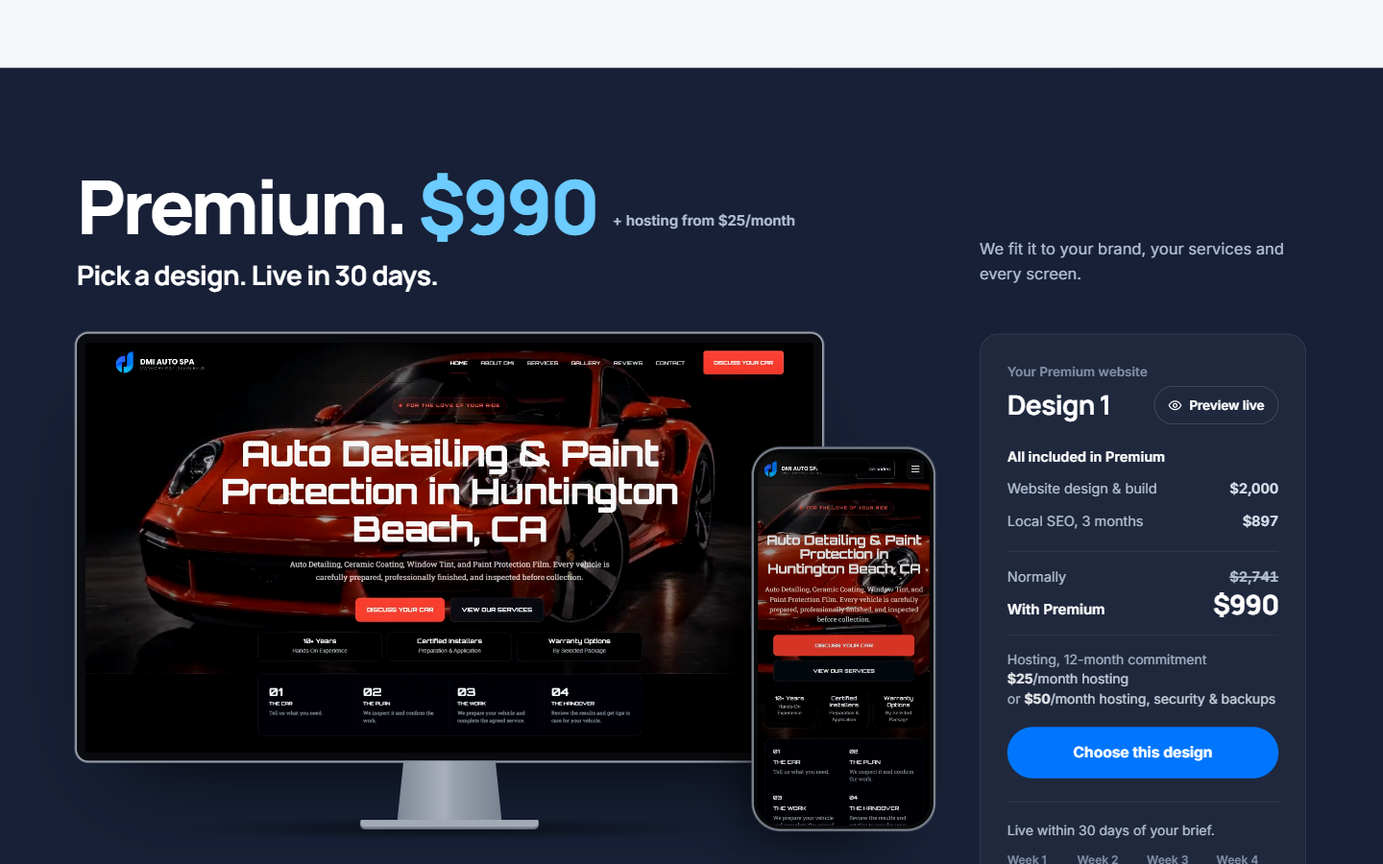
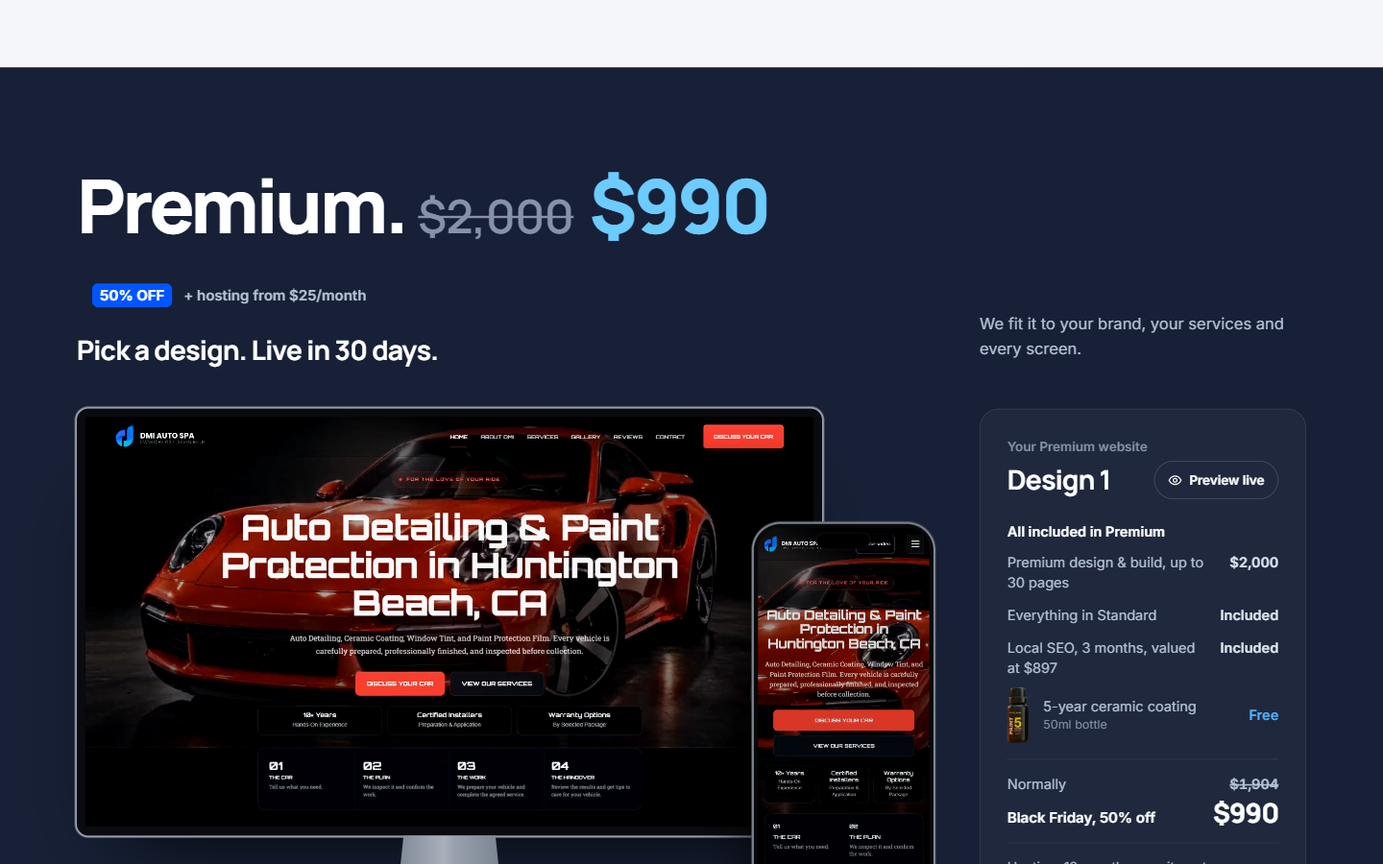
BF offer per Ed: 50% off pricing, page limits, free ceramic (temp Apeax photo), hosting choice, GHL payment links, Jesse calendar, tidy mobile hero

diff --git a/site/index.html b/site/index.html
@@ -2087,7 +2087,7 @@ body .dmx-cus .side .inc{margin:18px 0 8px;font-size:13.5px;font-weight:600;colo
    <h1 id="dmx-hero-h">Black Friday <span class="text-gradient-blue">Website Sale 2026</span></h1>
    <p class="bf-off"><b>50% OFF</b><span>Website design, Black Friday 2026</span></p>
    <ul class="proof"><li><b>1000+</b>Websites Built Since 2021</li><li><b>30 Days</b>to Launch</li></ul>
-   <p class="tiers"><a href="#standard">Standard<b>$500</b></a><a href="#premium">Premium<b>$990</b></a></p>
+   <p class="tiers"><a href="#standard"><span>Standard</span><s>$1,000</s><b>$500</b></a><a href="#premium"><span>Premium</span><s>$2,000</s><b>$990</b></a></p>
   </div>
   <form class="bf-form" data-lead="hero" id="claim">
    <h2>Claim your <span class="text-gradient-blue">Black Friday offer</span></h2>
@@ -2110,7 +2110,7 @@ body .dmx-cus .side .inc{margin:18px 0 8px;font-size:13.5px;font-weight:600;colo
  <div class="wrap">
   <div class="hd">
    <div>
-    <h2 class="tname" id="std-h">Standard. <span class="tpx">$500</span><small>+ hosting from $25/month</small></h2>
+    <h2 class="tname" id="std-h">Standard. <s class="bf-was">$1,000</s> <span class="tpx">$500</span><small><em class="bf-pct">50% OFF</em> + hosting from $25/month</small></h2>
     <p class="tsub">Choose any website we've built.</p>
     <p class="lead">A few of the 1,000+ we've built since 2021.<span class="l2"> Pick one and we build yours the same way, with your logo, photos and colours.</span></p>
    </div>
@@ -2124,7 +2124,7 @@ body .dmx-cus .side .inc{margin:18px 0 8px;font-size:13.5px;font-weight:600;colo
  <div class="wrap">
   <div class="cap"><p class="nm" id="stdCap" aria-live="polite"></p><div class="prog" aria-hidden="true"><i id="stdProg"></i></div></div>
   <ul class="inc">
-   <li><svg viewBox="0 0 24 24" fill="none" stroke="currentColor" stroke-width="2.4" aria-hidden="true"><path d="m5 12 5 5 9-10"/></svg>Standard design &amp; build</li>
+   <li><svg viewBox="0 0 24 24" fill="none" stroke="currentColor" stroke-width="2.4" aria-hidden="true"><path d="m5 12 5 5 9-10"/></svg>Up to 20 pages</li><li><svg viewBox="0 0 24 24" fill="none" stroke="currentColor" stroke-width="2.4" aria-hidden="true"><path d="m5 12 5 5 9-10"/></svg>Mobile &amp; tablet optimised</li><li><svg viewBox="0 0 24 24" fill="none" stroke="currentColor" stroke-width="2.4" aria-hidden="true"><path d="m5 12 5 5 9-10"/></svg>Lead forms &amp; contact integration</li><li><svg viewBox="0 0 24 24" fill="none" stroke="currentColor" stroke-width="2.4" aria-hidden="true"><path d="m5 12 5 5 9-10"/></svg>SEO-friendly setup</li><li><svg viewBox="0 0 24 24" fill="none" stroke="currentColor" stroke-width="2.4" aria-hidden="true"><path d="m5 12 5 5 9-10"/></svg>Google Analytics &amp; Search Console</li>
    <li class="ho">Hosting, 12-month commitment<span><b>$25</b>/month hosting</span><span><b>$50</b>/month hosting, security &amp; backups</span></li>
   </ul>
  </div>
@@ -2142,7 +2142,7 @@ body .dmx-cus .side .inc{margin:18px 0 8px;font-size:13.5px;font-weight:600;colo
    <p class="tn"><b>01</b>Standard</p>
    <h3 id="vwName"></h3>
    <p class="sv" id="vwSv"></p>
-   <p class="pr"><b>$500</b>+ hosting from $25/month</p>
+   <p class="pr"><s class="bf-was">$1,000</s> <b>$500</b>+ hosting from $25/month</p>
    <div class="acts">
     <a class="btn want" id="vwWant" href="https://www.facebook.com/messages/t/jesse.karistianos.1/" target="_blank" rel="noopener">I want one like this</a>
     <a class="btn vis" id="vwVis" href="#" target="_blank" rel="noopener">Visit live site <svg viewBox="0 0 24 24" fill="none" stroke="currentColor" stroke-width="2" aria-hidden="true"><path d="M7 17 17 7M8 7h9v9"/></svg></a>
@@ -2158,7 +2158,7 @@ body .dmx-cus .side .inc{margin:18px 0 8px;font-size:13.5px;font-weight:600;colo
  <div class="p3-wrap">
   <header class="p3-hd">
    <div class="p3-in">
-    <h2 class="tname" id="dmx-prm-h">Premium. <span class="tpx">$990</span><small>+ hosting from $25/month</small></h2>
+    <h2 class="tname" id="dmx-prm-h">Premium. <s class="bf-was">$2,000</s> <span class="tpx">$990</span><small><em class="bf-pct">50% OFF</em> + hosting from $25/month</small></h2>
     <p class="tsub">Pick a design. <span>Live in 30 days.</span></p>
    </div>
    <p class="lead p3-in">We fit it to your brand, your services and every screen.</p>
@@ -2185,13 +2185,15 @@ body .dmx-cus .side .inc{margin:18px 0 8px;font-size:13.5px;font-weight:600;colo
      <button class="p3-live" type="button" id="dmxP3Live"><svg viewBox="0 0 24 24" fill="none" stroke="currentColor" stroke-width="2" stroke-linecap="round" stroke-linejoin="round" aria-hidden="true"><path d="M2 12s3.6-7 10-7 10 7 10 7-3.6 7-10 7S2 12 2 12Z"/><circle cx="12" cy="12" r="3"/></svg>Preview live</button></div>
     <p class="p3-rh">All included in Premium</p>
     <ul class="p3-rc" id="dmxP3Inc">
-     <li>Website design &amp; build<b>$2,000</b></li>
-     <li>Local SEO, 3 months<b>$897</b></li>
+     <li>Premium design &amp; build, up to 30 pages<b>$2,000</b></li>
+     <li>Everything in Standard<b>Included</b></li>
+     <li>Local SEO, 3 months, valued at $897<b>Included</b></li>
+     <li class="bf-gift"><img src="assets/bf-bottle-temp.webp" alt="" width="209" height="562" loading="lazy"><span>5-year ceramic coating<small>50ml bottle</small></span><b>Free</b></li>
     </ul>
-    <p class="p3-tot" id="dmxP3Tot">Normally<b data-v="2897">$2,897</b></p>
-    <p class="p3-now">With Premium<strong>$990</strong></p>
+    <p class="p3-tot" id="dmxP3Tot">Normally<b data-v="2000">$2,000</b></p>
+    <p class="p3-now">Black Friday, 50% off<strong>$990</strong></p>
     <p class="p3-host">Hosting, 12-month commitment<span><b>$25</b>/month hosting</span><span><b>$50</b>/month hosting, security &amp; backups</span></p>
-    <p class="p3-pay"><span>You pay</span><strong>$990</strong><small>$2,897 value</small></p>
+    <p class="p3-pay"><span>You pay</span><strong>$990</strong><small>Normally $2,000</small></p>
     <a class="p3-want want" id="dmxP3Want" href="https://www.facebook.com/messages/t/jesse.karistianos.1/" target="_blank" rel="noopener" data-msg="Hi Jesse, I'd like the Premium package with Design 1.">Choose this design</a>
     <button class="p3-inc" type="button" aria-expanded="false" aria-controls="dmxP3Inc">What's included<svg viewBox="0 0 24 24" fill="none" stroke="currentColor" stroke-width="2.2" stroke-linecap="round" stroke-linejoin="round" aria-hidden="true"><path d="m6 9 6 6 6-6"/></svg></button>
     <div class="p3-tl">
@@ -2258,9 +2260,9 @@ body .dmx-cus .side .inc{margin:18px 0 8px;font-size:13.5px;font-weight:600;colo
   </div>
   <div data-rv-step="60">
    <h3 class="fq rv">FAQ</h3>
-   <details class="rv" open><summary>How does the $99 deposit work?<i aria-hidden="true"></i></summary><p>The $99 deposit reserves your Black Friday price and is taken off your package total. After you pay, you book a call with Jesse to plan your website. The remaining balance is due within 14 calendar days.</p></details>
+   <details class="rv" open><summary>How does the $99 deposit work?<i aria-hidden="true"></i></summary><p>The $99 deposit reserves your Black Friday price and is taken off your package total. After you pay, you book a call with Jesse to plan your website (we also email you the booking link). The remaining balance is due within 14 calendar days.</p></details>
    <details class="rv"><summary>Is hosting included?<i aria-hidden="true"></i></summary><p>Standard and Premium come with a choice of two hosting plans, each on a 12-month commitment: hosting at $25/month, or hosting, security and backups at $50/month.</p></details>
-   <details class="rv"><summary>Standard or Premium?<i aria-hidden="true"></i></summary><p>Standard rebuilds one of our client websites around your brand. Premium starts from one of our premium designs and adds 3 months of local SEO. Every site works on phones, tablets and desktops.</p></details>
+   <details class="rv"><summary>Standard or Premium?<i aria-hidden="true"></i></summary><p>Standard ($500, normally $1,000) rebuilds one of our client websites around your brand, up to 20 pages. Premium ($990, normally $2,000) starts from one of our premium designs, up to 30 pages, and adds 3 months of local SEO plus a free 5-year ceramic coating (50ml bottle). Every site works on phones, tablets and desktops.</p></details>
    <details class="rv"><summary>Will you set up my domain?<i aria-hidden="true"></i></summary><p>Yes. We'll register or connect your domain and set everything up.</p></details>
    <details class="rv"><summary>What happens after launch?<i aria-hidden="true"></i></summary><p>We provide ongoing support for fixes, updates and upgrades.</p></details>
   </div>

diff --git a/site/checkout/index.html b/site/checkout/index.html
@@ -52,7 +52,7 @@
           <p class="d">A professional website on a proven DMI design, customised for your business.</p>
         </div>
         <div class="img"><img src="../assets/std-diwal-auto-pros.webp" alt="" width="760" height="475"></div>
-        <div class="chips"><span>Up to 20 pages</span><span>Mobile optimised</span><span>Lead forms</span><span>SEO-friendly setup</span><span>$25/mo hosting</span></div>
+        <div class="chips"><span>Up to 20 pages</span><span>Mobile optimised</span><span>Lead forms</span><span>SEO-friendly setup</span><span>Analytics &amp; Search Console</span></div>
       </label>
       <label class="opt">
         <input type="radio" name="pkg" value="premium">
@@ -64,7 +64,7 @@
           <p class="d">An upgraded premium design plus 3 months of Local SEO and a free 5-year ceramic coating bottle.</p>
         </div>
         <div class="img"><img src="../assets/prm-3-d.webp" alt="" width="1200" height="750"></div>
-        <div class="chips"><span>Up to 30 pages</span><span>3 months Local SEO (value $897)</span><span>Free 50ml ceramic coating</span><span>12 months hosting $25/mo</span></div>
+        <div class="chips"><span>Up to 30 pages</span><span>3 months Local SEO (value $897)</span><span>Free 5-year ceramic coating (50ml)</span><span>Everything in Standard</span></div>
       </label>
     </div>
 
@@ -80,8 +80,13 @@
           <div><label for="f-email">Email address</label><input id="f-email" name="email" type="email" autocomplete="email" placeholder="jane@business.com" required></div>
           <div><label for="f-phone">Phone number (optional)</label><input id="f-phone" name="phone" type="tel" autocomplete="tel" placeholder="(555) 000-0000"></div>
         </div>
-        <label class="agree"><input type="checkbox" name="agree" required><span>I understand that the $99 deposit is part of my website package price, the remaining balance is due within 14 calendar days of payment, and hosting costs an additional $25/month under a 12-month commitment.</span></label>
-        <p class="paynote"><svg><use href="#i-lock"/></svg><span>You'll pay the deposit on our secure payment page (Airwallex). Card details are never entered on this page.</span></p>
+        <fieldset class="host">
+          <legend>Hosting (12-month commitment, billed separately)</legend>
+          <label><input type="radio" name="hosting" value="basic" checked><span><b>$25/month</b>Hosting</span></label>
+          <label><input type="radio" name="hosting" value="secure"><span><b>$50/month</b>Hosting, security &amp; backups</span></label>
+        </fieldset>
+        <label class="agree"><input type="checkbox" name="agree" required><span>I understand that the $99 deposit is part of my website package price, the remaining balance is due within 14 calendar days of payment, and hosting (the plan I picked above) is billed separately under a 12-month commitment.</span></label>
+        <p class="paynote"><svg><use href="#i-lock"/></svg><span>You'll pay the deposit on our secure payment page (Stripe). Card details are never entered on this page.</span></p>
         <p class="demo" id="demoNote" hidden>Demo: no payment link yet, the button goes straight to the thank-you page. No deposit is taken.</p>
         <button class="btn wide" type="submit" id="payBtn">Pay $99 deposit <svg><use href="#i-arrow"/></svg></button>
       </form>
@@ -95,7 +100,7 @@
           <div class="ln"><dt>Black Friday price</dt><dd id="lnPrice">$500</dd></div>
           <div class="ln today"><dt>Pay today (deposit)</dt><dd>$99</dd></div>
           <div class="ln"><dt>Remaining balance, due within 14 days</dt><dd id="lnRest">$401</dd></div>
-          <div class="ln"><dt>Hosting, additional</dt><dd>$25/month</dd></div>
+          <div class="ln"><dt>Hosting, additional</dt><dd id="lnHost">$25/month</dd></div>
         </dl>
         <p class="fine">Hosting has a 12-month commitment and is billed separately from the discounted website price.</p>
       </aside>
@@ -113,7 +118,8 @@
 <script src="../assets/bf.js"></script>
 <script>
 (function(){
-  const {PACKAGES,DEPOSIT,CONFIG,fmt}=window.BF;
+  const {PACKAGES,DEPOSIT,HOSTING,CONFIG,fmt}=window.BF;
+  const hostSel=()=>(document.querySelector('input[name=hosting]:checked')||{}).value||'basic';
   const radios=[...document.querySelectorAll('input[name=pkg]')];
   const $=id=>document.getElementById(id);
   const QS=new URLSearchParams(location.search),start=QS.get('pkg');
@@ -128,12 +134,14 @@
     $('sumNormal').textContent=$('lnNormal').textContent=fmt(p.normal);
     $('sumSave').textContent=fmt(p.normal-p.price);
     $('lnRest').textContent=fmt(p.price-DEPOSIT);
-    $('demoNote').hidden=!!CONFIG.airwallex[k];
+    $('demoNote').hidden=!!CONFIG.payment[k];
+    const h=HOSTING[hostSel()];$('lnHost').textContent=fmt(h.price)+'/month';
     if(design&&k!==start)design='';
     $('lnDesign').hidden=!design;$('dDesign').textContent=design;
     history.replaceState(null,'','?pkg='+k+(design?'&design='+encodeURIComponent(design):''));
   }
   radios.forEach(r=>r.addEventListener('change',render));
+  document.querySelectorAll('input[name=hosting]').forEach(r=>r.addEventListener('change',render));
   render();
 
   // prefill from the landing-page lead form
@@ -146,9 +154,10 @@
     if(!f.checkValidity()){ f.reportValidity(); return; }
     const k=radios.find(r=>r.checked).value,p=PACKAGES[k],d=Object.fromEntries(new FormData(f));
     $('payBtn').disabled=true;
-    await window.BF.send({type:'deposit_started',package:p.name,package_price:p.price,design:design||undefined,deposit:DEPOSIT,name:d.name,email:d.email,business:d.business,phone:d.phone});
+    await window.BF.send({type:'deposit_started',package:p.name,package_price:p.price,design:design||undefined,deposit:DEPOSIT,hosting:HOSTING[hostSel()].label+' $'+HOSTING[hostSel()].price+'/month',name:d.name,email:d.email,business:d.business,phone:d.phone});
     try{sessionStorage.setItem('bf_pkg',k);}catch(err){}
-    location.href=CONFIG.airwallex[k]||('../thank-you/?pkg='+k+'&demo=1');
+    // GHL payment page; the email is passed along so the customer doesn't type it twice
+    location.href=CONFIG.payment[k]?CONFIG.payment[k]+'?email='+encodeURIComponent(d.email):('../thank-you/?pkg='+k+'&demo=1');
   });
 })();
 </script>

diff --git a/4-tools/flow-test-v3.js b/4-tools/flow-test-v3.js
@@ -9,6 +9,15 @@ const sleep = ms => new Promise(r => setTimeout(r, ms));
   const p = await b.newPage(); await p.setViewport({ width: 1440, height: 900 });
   const errs = []; p.on('pageerror', e => errs.push('JS ' + e.message));
   let popups = 0; b.on('targetcreated', () => popups++);
+  // never write test leads into the real GHL; capture where the deposit button goes instead of loading Stripe
+  const sent = []; let payUrl = '';
+  await p.setRequestInterception(true);
+  p.on('request', r => {
+    const u = r.url();
+    if (u.includes('/api/lead')) { sent.push(JSON.parse(r.postData() || '{}')); return r.respond({ status: 200, contentType: 'application/json', body: '{"ok":true}' }); }
+    if (u.includes('fastpaydirect.com')) { if (!payUrl) payUrl = u; return r.respond({ status: 200, contentType: 'text/html', body: 'pay' }); }
+    r.continue();
+  });
 
   // 1. hero form: move the mouse over the wall first so a tile is "hot", then click into the form
   await p.goto(BASE, { waitUntil: 'networkidle2' }); await sleep(3000);
@@ -38,6 +47,17 @@ const sleep = ms => new Promise(r => setTimeout(r, ms));
   // 4. switching package on checkout drops the design
   await p.click('label.opt:nth-child(2)'); await sleep(200);
   console.log('4. switched to Premium, design row hidden:', await p.$eval('#lnDesign', e => e.hidden));
+  // 5. deposit: pick $50 hosting, agree, pay -> GHL payment link for Premium with the email
+  await p.click('.host label:nth-child(3)'); await sleep(100);
+  console.log('5. hosting line:', await p.$eval('#lnHost', e => e.textContent));
+  await p.$eval('#f-email', e => e.value = 'qa@example.com'); await p.$eval('#f-name', e => e.value = 'QA Test'); await p.$eval('#f-biz', e => e.value = 'QA Biz');
+  await p.$eval('input[name=agree]', e => e.checked = true);
+  await Promise.all([p.waitForNavigation().catch(() => {}), p.click('#payBtn')]); await sleep(800);
+  console.log('   -> pay url:', payUrl || p.url());
+  console.log('   lead payloads:', sent.map(x => x.type + (x.hosting ? ' [' + x.hosting + ']' : '')).join(', '));
+  // 6. thank-you: Jesse button prefilled
+  await p.goto(BASE + 'thank-you/?pkg=premium&paid=1', { waitUntil: 'networkidle2' });
+  console.log('6. thank-you:', await p.$eval('#pkgName', e => e.textContent), '|', await p.$eval('#bookBtn', e => e.href));
   console.log('errors:', errs.length ? errs : 'none', '| popups:', popups);
   await b.close();
 })();

diff --git a/site/assets/bf-v3.css b/site/assets/bf-v3.css
@@ -56,3 +56,36 @@
   .bf-strip .wrap{flex-direction:column;align-items:flex-start;padding:28px 0;gap:12px}
   .bf-strip .big{text-align:left;font-size:42px}
 }
+
+/* Black Friday prices: the normal price struck through, then the sale price */
+.bf-was{margin-right:.08em;font-weight:600;font-size:.62em;color:#8592AA;text-decoration-thickness:2px;letter-spacing:-.01em}
+.dmx .tname small .bf-pct{margin-right:8px;padding:3px 8px;border-radius:6px;background:#0055FF;color:#fff;font-style:normal;font-weight:700}
+.dmx-show .tiers s{color:#8592AA;font-weight:500}
+#stdView .pr .bf-was{font-size:15px}
+
+/* Premium: the free bottle sits in the included list with its real photo (temporary Apeax until the DMI bottle) */
+.p3-rc li.bf-gift{align-items:center;justify-content:flex-start}
+.p3-rc li.bf-gift img{flex:none;width:auto;height:58px;margin:-4px 0}
+.p3-rc li.bf-gift span{flex:1;display:flex;flex-direction:column}
+.p3-rc li.bf-gift small{font-size:12.5px;color:#8592AA}
+.p3-rc li.bf-gift b{color:#4FB0FF}
+
+/* phones: one tidy column — headline, offer card with both prices, then the form */
+@media (max-width:640px){
+  .dmx-show .bf-k,.dmx-show .bf-hero .proof{display:none}
+  .dmx-show .copy.bf-hero{gap:18px;padding-top:8px}
+  .dmx-show .bf-hero h1{font-size:clamp(36px,10.4vw,46px);line-height:1.02}
+  .dmx-show .bf-off{display:flex;flex-direction:row;align-items:center;gap:12px;width:100%;margin-top:16px;padding:12px 16px;border-radius:14px 14px 0 0;box-shadow:none}
+  .dmx-show .bf-off b{font-size:32px;white-space:nowrap}
+  .dmx-show .bf-off span{margin:0;font-size:13px;line-height:1.3}
+  .dmx-show .bf-hero .tiers{display:grid;grid-template-columns:1fr 1fr;margin:0;border:1px solid rgba(169,214,255,.18);border-top:0;border-radius:0 0 14px 14px;background:rgba(6,17,31,.7)}
+  .dmx-show .bf-hero .tiers a{display:flex;flex-direction:row;flex-wrap:wrap;align-items:baseline;gap:0 8px;padding:10px 16px;font-size:13px}
+  .dmx-show .bf-hero .tiers a>span{width:100%}
+  .dmx-show .bf-hero .tiers a>s{font-size:13px}
+  .dmx-show .bf-hero .tiers b{font-size:18px}
+  .dmx-show .bf-form{padding:20px 18px}
+  .dmx .bf-form h2{font-size:21px}
+  .bf-form>p{margin:6px 0 14px;font-size:14px}
+  .bf-f input{height:48px}
+  .p3-rc li.bf-gift img{height:48px}
+}

diff --git a/4-tools/parts/end.html b/4-tools/parts/end.html
@@ -15,9 +15,9 @@
   </div>
   <div data-rv-step="60">
    <h3 class="fq rv">FAQ</h3>
-   <details class="rv" open><summary>How does the $99 deposit work?<i aria-hidden="true"></i></summary><p>The $99 deposit reserves your Black Friday price and is taken off your package total. After you pay, you book a call with Jesse to plan your website. The remaining balance is due within 14 calendar days.</p></details>
+   <details class="rv" open><summary>How does the $99 deposit work?<i aria-hidden="true"></i></summary><p>The $99 deposit reserves your Black Friday price and is taken off your package total. After you pay, you book a call with Jesse to plan your website (we also email you the booking link). The remaining balance is due within 14 calendar days.</p></details>
    <details class="rv"><summary>Is hosting included?<i aria-hidden="true"></i></summary><p>Standard and Premium come with a choice of two hosting plans, each on a 12-month commitment: hosting at $25/month, or hosting, security and backups at $50/month.</p></details>
-   <details class="rv"><summary>Standard or Premium?<i aria-hidden="true"></i></summary><p>Standard rebuilds one of our client websites around your brand. Premium starts from one of our premium designs and adds 3 months of local SEO. Every site works on phones, tablets and desktops.</p></details>
+   <details class="rv"><summary>Standard or Premium?<i aria-hidden="true"></i></summary><p>Standard ($500, normally $1,000) rebuilds one of our client websites around your brand, up to 20 pages. Premium ($990, normally $2,000) starts from one of our premium designs, up to 30 pages, and adds 3 months of local SEO plus a free 5-year ceramic coating (50ml bottle). Every site works on phones, tablets and desktops.</p></details>
    <details class="rv"><summary>Will you set up my domain?<i aria-hidden="true"></i></summary><p>Yes. We'll register or connect your domain and set everything up.</p></details>
    <details class="rv"><summary>What happens after launch?<i aria-hidden="true"></i></summary><p>We provide ongoing support for fixes, updates and upgrades.</p></details>
   </div>

diff --git a/site/assets/bf.js b/site/assets/bf.js
@@ -1,20 +1,25 @@
-/* DMI Black Friday 2026 — config + forms. Fill the CONFIG values when GHL / Airwallex / Jesse send them. */
+/* DMI Black Friday 2026: config + forms. GHL lead API, GHL payment links ($99 deposit, Stripe) and Jesse's calendar. */
 window.BF = {
   CONFIG: {
     // Our own Worker endpoint; it holds the GHL token and upserts the contact (src/worker.js).
     // Empty = demo mode, nothing is sent.
     ghlWebhook: '/api/lead',
-    // Airwallex $99 deposit links (Ed). One link for both is fine: set both to the same URL.
-    // Set the Airwallex success redirect to <site>/thank-you/?pkg=standard|premium
-    airwallex: { standard: '', premium: '' },
-    // Jesse's booking calendar (GHL calendar / Calendly)
-    jesseCalendar: '',
+    // GHL Payment Links ($99 "Black Friday 2026 Website Deposit" product, paid into DMI's Stripe).
+    // Each link redirects back to /thank-you/?pkg=...&paid=1 after payment (set inside GHL > Payments > Payment Links).
+    // If the site moves to a DMI subdomain, update that redirect URL in both links.
+    payment: {
+      standard: 'https://link.fastpaydirect.com/payment-link/6af14a3303c375ed645fe306',
+      premium: 'https://link.fastpaydirect.com/payment-link/6af14af7d4cfb789aef226ae',
+    },
+    // Jesse's booking calendar (Acuity)
+    jesseCalendar: 'https://bookacallwithdetailersmovement.as.me/schedule/07fa36d7/appointment/29902457/calendar/6440422',
   },
   PACKAGES: {
     standard: { name: 'Standard Website', price: 500, normal: 1000 },
     premium: { name: 'Premium Website', price: 990, normal: 2000 },
   },
   DEPOSIT: 99,
+  HOSTING: { basic: { label: 'Hosting', price: 25 }, secure: { label: 'Hosting, security & backups', price: 50 } },
 };
 
 (function () {

diff --git a/site/assets/bf.css b/site/assets/bf.css
@@ -260,3 +260,12 @@ s{color:var(--dim);text-decoration-thickness:2px}
 .next b{display:block;font-family:Manrope,sans-serif}
 .next span{color:var(--muted);font-size:14.5px}
 .ty .btn{margin-top:32px}
+
+/* hosting choice at checkout (Ed 09/11: keep both $25 and $50) */
+.host{margin:20px 0 0;padding:0;border:0;display:grid;grid-template-columns:1fr 1fr;gap:10px}
+.host legend{grid-column:1/-1;margin-bottom:8px;font:600 13.5px Inter,sans-serif}
+.host label{display:flex;gap:10px;align-items:flex-start;padding:12px 14px;border:1px solid var(--line2);border-radius:10px;cursor:pointer;font-size:13.5px;color:var(--muted);line-height:1.35}
+.host label:has(input:checked){border-color:var(--bright);background:var(--bg3)}
+.host input{margin-top:2px;accent-color:var(--blue);flex:none}
+.host b{display:block;color:var(--text);font:700 15px Manrope,Inter,sans-serif}
+@media (max-width:640px){.host{grid-template-columns:1fr}}

diff --git a/site/thank-you/index.html b/site/thank-you/index.html
@@ -49,7 +49,14 @@
   const k=new URLSearchParams(location.search).get('pkg')||sessionStorage.getItem('bf_pkg');
   if(PACKAGES[k]) document.getElementById('pkgName').textContent=PACKAGES[k].name;
   const b=document.getElementById('bookBtn');
-  if(CONFIG.jesseCalendar) b.href=CONFIG.jesseCalendar;
+  if(CONFIG.jesseCalendar){
+    // prefill Jesse's Acuity calendar with what they typed on our forms
+    const u=new URL(CONFIG.jesseCalendar),l=window.BF.lead()||{},n=(l.name||'').trim().split(/\s+/);
+    if(n[0]) u.searchParams.set('firstName',n[0]);
+    if(n.length>1) u.searchParams.set('lastName',n.slice(1).join(' '));
+    if(l.email) u.searchParams.set('email',l.email);
+    b.href=u.toString();
+  }
   else { b.removeAttribute('target'); document.getElementById('demoNote').hidden=false; }
 })();
 </script>

diff --git a/4-tools/parts/hero-copy.html b/4-tools/parts/hero-copy.html
@@ -5,7 +5,7 @@
    <h1 id="dmx-hero-h">Black Friday <span class="text-gradient-blue">Website Sale 2026</span></h1>
    <p class="bf-off"><b>50% OFF</b><span>Website design, Black Friday 2026</span></p>
    <ul class="proof"><li><b>1000+</b>Websites Built Since 2021</li><li><b>30 Days</b>to Launch</li></ul>
-   <p class="tiers"><a href="#standard">Standard<b>$500</b></a><a href="#premium">Premium<b>$990</b></a></p>
+   <p class="tiers"><a href="#standard"><span>Standard</span><s>$1,000</s><b>$500</b></a><a href="#premium"><span>Premium</span><s>$2,000</s><b>$990</b></a></p>
   </div>
   <form class="bf-form" data-lead="hero" id="claim">
    <h2>Claim your <span class="text-gradient-blue">Black Friday offer</span></h2>

diff --git a/src/worker.js b/src/worker.js
@@ -55,6 +55,7 @@ async function handleLead(req, env) {
       `Black Friday 2026: ${d.type === 'deposit_started' ? 'started $99 deposit checkout' : 'lead form (' + (d.form || 'landing') + ')'}`,
       d.package && `Package: ${d.package} ($${d.package_price})`,
       d.design && `Design picked: ${d.design}`,
+      d.hosting && `Hosting: ${d.hosting} (12-month commitment)`,
       d.business && `Business: ${d.business}`,
       ['utm_source', 'utm_medium', 'utm_campaign', 'utm_content'].filter(k => d[k]).map(k => `${k}: ${d[k]}`).join(' · '),
       `Page: ${d.page || ''} · ${d.submitted_at || new Date().toISOString()}`,

diff --git a/4-tools/build_from_v3.py b/4-tools/build_from_v3.py
@@ -59,6 +59,31 @@ html = must_replace(html, "if(e.target.closest('a,button')&&!e.target.closest('.
 end = re.search(r"<!-- SECTION:faq-cta -->.*?<!-- /SECTION:faq-cta -->", html, re.S)
 html = html[: end.start()] + (PARTS / "end.html").read_text(encoding="utf-8") + html[end.end():]
 
+# 5b. Black Friday offer (Ed, 09/11): 50% off model, Standard normally $1,000 -> $500 (up to 20 pages),
+#     Premium normally $2,000 -> $990 (up to 30 pages, 3 months local SEO valued $897, free 5-year ceramic 50ml),
+#     hosting keeps both $25 and $50. Bottle photo is a temporary Apeax one until the DMI bottle arrives.
+html = must_replace(html, 'Standard. <span class="tpx">$500</span><small>+ hosting from $25/month</small>',
+                    'Standard. <s class="bf-was">$1,000</s> <span class="tpx">$500</span><small><em class="bf-pct">50% OFF</em> + hosting from $25/month</small>')
+html = must_replace(html, 'Premium. <span class="tpx">$990</span><small>+ hosting from $25/month</small>',
+                    'Premium. <s class="bf-was">$2,000</s> <span class="tpx">$990</span><small><em class="bf-pct">50% OFF</em> + hosting from $25/month</small>')
+m = re.search(r'<li>(<svg[^>]*><path[^>]*/></svg>)Standard design &amp; build</li>', html)
+assert m
+chk = m.group(1)
+std_inc = ["Up to 20 pages", "Mobile &amp; tablet optimised", "Lead forms &amp; contact integration",
+           "SEO-friendly setup", "Google Analytics &amp; Search Console"]
+html = html[: m.start()] + "".join(f"<li>{chk}{t}</li>" for t in std_inc) + html[m.end():]
+html = must_replace(html, '<p class="pr"><b>$500</b>+ hosting from $25/month</p>',
+                    '<p class="pr"><s class="bf-was">$1,000</s> <b>$500</b>+ hosting from $25/month</p>')
+html = must_replace(html, '<li>Website design &amp; build<b>$2,000</b></li>\n     <li>Local SEO, 3 months<b>$897</b></li>',
+                    '<li>Premium design &amp; build, up to 30 pages<b>$2,000</b></li>\n'
+                    '     <li>Everything in Standard<b>Included</b></li>\n'
+                    '     <li>Local SEO, 3 months, valued at $897<b>Included</b></li>\n'
+                    '     <li class="bf-gift"><img src="assets/bf-bottle-temp.webp" alt="" width="209" height="562" loading="lazy">'
+                    '<span>5-year ceramic coating<small>50ml bottle</small></span><b>Free</b></li>')
+html = must_replace(html, 'Normally<b data-v="2897">$2,897</b>', 'Normally<b data-v="2000">$2,000</b>')
+html = must_replace(html, '<p class="p3-now">With Premium<strong>$990</strong></p>', '<p class="p3-now">Black Friday, 50% off<strong>$990</strong></p>')
+html = must_replace(html, '<small>$2,897 value</small>', '<small>Normally $2,000</small>')
+
 # 6. BF scripts: lead form + route "I want one like this" / "Choose this design" to the $99 checkout
 html = must_replace(html, "</body>", '<script src="assets/bf.js"></script>\n<script src="assets/bf-v3.js"></script>\n</body>')
 

diff --git a/CLAUDE.md b/CLAUDE.md
@@ -24,13 +24,13 @@
 
 ## Việc chờ người khác
 - [ ] Steve → anh Bằng: gắn subdomain detailersmovement.com cho worker.
-- [ ] Anh Đạt: inbound webhook GHL (lead + checkout), workflow email sau cọc.
-- [ ] Ed: link Airwallex $99 (1 link chung hay 2 theo gói), điều khoản hoàn/huỷ cọc.
-- [ ] Jesse: link lịch book call.
+- [ ] **Ed: Stripe live của DMI không nhận thanh toán** (link GHL Live báo "No valid payment method available"; link Test mode thì hiện ô thẻ). Ed kiểm Stripe dashboard / nối lại Stripe trong GHL. Điều khoản hoàn/huỷ cọc.
+- [ ] Fender: dựng workflow GHL "BF26 Deposit paid" (trigger Payment Received, sản phẩm Black Friday 2026 Website Deposit → tag `bf26-deposit-paid` → email link lịch Jesse), bản Draft cần duyệt rồi Publish. UI workflow nằm trong iframe, Claude không click được.
+- [ ] Fender: gửi ảnh chai ceramic DMI 50ml → thay `site/assets/bf-bottle-temp.webp` (đang là Apeax Paint 5 Years 20ml, tạm).
 
 ## Cấu trúc
 - `site/` = thứ lên Cloudflare (`wrangler.jsonc`, worker `dmi-blackfriday`, live tại https://dmi-blackfriday.fender-aa2.workers.dev; push `main` = tự deploy qua Workers Builds). `index.html` (landing), `checkout/`, `thank-you/`, `assets/bf.css` + `bf.js`.
-- **Nối thật chỉ cần điền `CONFIG` đầu `site/assets/bf.js`:** `ghlWebhook` (Đạt), `airwallex.standard/premium` (Ed; success redirect về `/thank-you/?pkg=...`), `jesseCalendar` (Jesse). Để trống = chế độ demo (không gửi gì, nút cọc đi thẳng trang cảm ơn, có hộp vàng báo Demo).
+- **`CONFIG` đầu `site/assets/bf.js`:** `ghlWebhook` = `/api/lead`; `payment.standard/premium` = GHL Payment Links (`link.fastpaydirect.com/payment-link/6af14a3303c375ed645fe306` / `6af14af7d4cfb789aef226ae`, product "Black Friday 2026 Website Deposit" $99 id `6af149fb1549b73ef5e8d4e1`, Live mode, redirect về `/thank-you/?pkg=...&paid=1`; **đổi domain thì sửa redirect trong 2 link**); `jesseCalendar` = Acuity của Jesse (trang cảm ơn điền sẵn firstName/lastName/email). Checkout nối `?email=` vào link thanh toán (chỉ email điền sẵn được). Để trống = demo.
 - Payload gửi GHL: `type` = `lead` (form hero/quote) hoặc `deposit_started` (checkout), kèm `package`, `package_price`, `deposit`, `name/email/business/phone`, `utm_*`, `campaign`. Lead form xong thì chuyển sang checkout, thông tin điền sẵn (sessionStorage).
 - Tài sản chép từ dự án `Downloads/DMI- Service Website-Design` bằng `4-tools/prep_assets.py`. Standard: First Choice, Daniels, Diwal, ATD, Slim's (crop 16:10 đầu trang). Premium: Design 1–5 (link steve-7e8 themes). Review: 3 câu thật (Ryan Lindsey, Michael Heintz, Joey Love). Nền hero = ảnh studio của Premium Design 4.
 - Preview: launch `dmi-blackfriday` cổng 8770. QA: `node 4-tools/shots.js` (ảnh vào `4-tools/qa/`), `node 4-tools/flow-test.js` (thử luồng form → checkout → cảm ơn).
@@ -46,11 +46,12 @@
 - Giữ nguyên CSS/JS gốc của V3: header, hero tường web, Standard, Premium (configurator), Reviews, footer. Bỏ: Before/After, Custom, Simulator, CRM. Cuối trang thay CTA/FAQ cũ bằng `parts/end.html` (form quote + FAQ không Custom, thêm câu cọc $99) + dải "Limited time only".
 - Hero: `parts/hero-copy.html` (tiêu đề BF + 50% OFF + form 3 trường), `.bf-shade` làm tối nền sau chữ. Đã vá script tường web để bấm vào form không mở web khách.
 - Nút "I want one like this" (Standard) và "Choose this design" (Premium) → `checkout/?pkg=...&design=...` (thay vì Messenger), checkout hiện dòng Design, gửi kèm sang GHL.
-- **Giá các block giữ đúng V3** ($500 / $990, Premium "Normally $2,897", hosting $25/$50, không ceramic). Chỉ hero và dải cuối ghi "50% OFF". Chờ Ed chốt giá gạch theo mock hay V3.
+- **Giá theo Ed (09/11):** Standard ~~$1,000~~ $500 (≤20 trang + 5 quyền lợi mock), Premium ~~$2,000~~ $990 (≤30 trang, Everything in Standard, Local SEO 3 tháng valued $897, tặng ceramic 5 năm 50ml), hosting giữ $25 và $50. Builder (`build_from_v3.py` bước 5b) vá các dòng này trên HTML V3. Checkout có chọn hosting, gửi kèm sang GHL (ghi chú contact).
 - Bản landing cũ dựng theo mock: `4-tools/old/index-mock-v1.html`.
-- QA: `node 4-tools/shots-v3.js` (ảnh từng block), `node 4-tools/flow-test-v3.js` (4 luồng).
+- QA: `node 4-tools/shots-v3.js <url>` (ảnh từng block), `node 4-tools/flow-test-v3.js <url>` (6 bước, chặn `/api/lead` và trang Stripe nên không tạo contact rác).
 
 ## Nhật ký
+- **09/11/2026 (khuya 2):** Mail Ed (qua Steve): 50% OFF model, giữ 2 hosting, tặng chai ceramic DMI, 20/30 trang, cọc qua GHL, sau cọc → lịch Jesse. Đã: sửa giá/quyền lợi toàn trang + checkout, chai Apeax tạm, hero điện thoại gọn 1 màn (bỏ kicker + proof, khối 50% OFF + giá gạch), tạo product + 2 Payment Link trong GHL, nối link lịch Jesse. Stripe live của DMI (đã nối GHL, từng thu $99 qua funnel marketingtoolkits 11/2024) hiện không thanh toán được → chờ Ed.
 - **09/11/2026 (khuya):** Location ID `yqROQIaNeeK0xIpi4n67` đã điền, token đọc/ghi contacts OK (không có scope locations). Git: repo riêng tư https://github.com/fender-del/dmi-blackfriday-2026 (`main`). Deploy live https://dmi-blackfriday.fender-aa2.workers.dev, secret `GHL_TOKEN` đã đặt. Lead thử: contact `test-bf26@detailersmovement.com` (TEST - please delete) cần xoá trong GHL. Deploy tự động từ git (Workers Builds) cần Fender bấm nối GitHub trong dashboard Cloudflare.
 - **09/11/2026 (đêm):** Fender có tài khoản GHL `https://app.detailersmovement.com/` (white-label). Đã hướng dẫn: lấy Location ID từ URL `/v2/location/<ID>/`, token phải tạo trong đúng sub-account (scope contacts); phương án cọc trên GHL (Payment Link / order form funnel + workflow "Payment Received") cần cổng thanh toán GHL hỗ trợ (Stripe…, Airwallex không có sẵn); subdomain: worker phải nằm cùng tài khoản Cloudflare với zone detailersmovement.com → bàn giao cho anh Bằng deploy vào tài khoản DMI rồi Add Custom Domain.
 - **09/11/2026 (tối):** Fender yêu cầu lấy đúng block từ source V3 (hero + form, Standard, Premium, testimonial; bỏ Custom) → dựng lại landing bằng builder ở trên. Máy tính 6,8 màn, điện thoại 7,0. QA không lỗi JS, 4 luồng chạy đúng.
